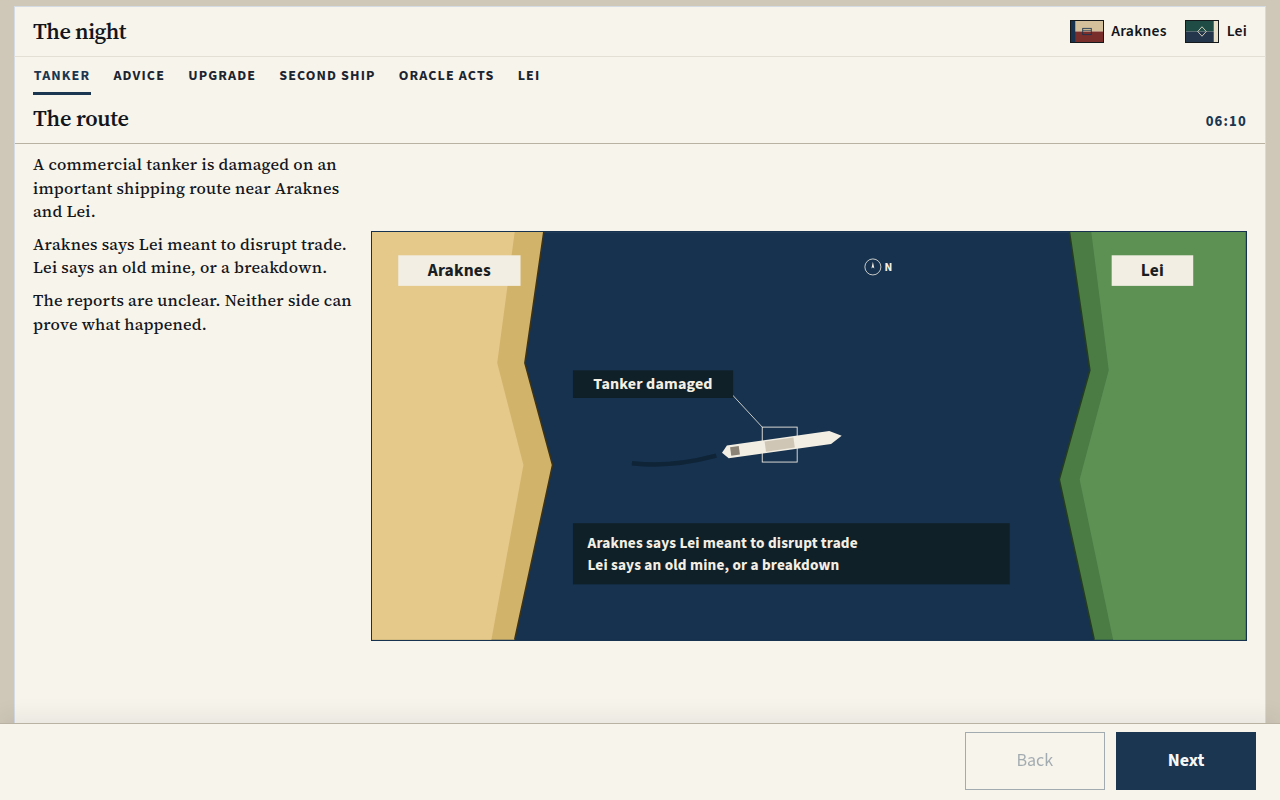
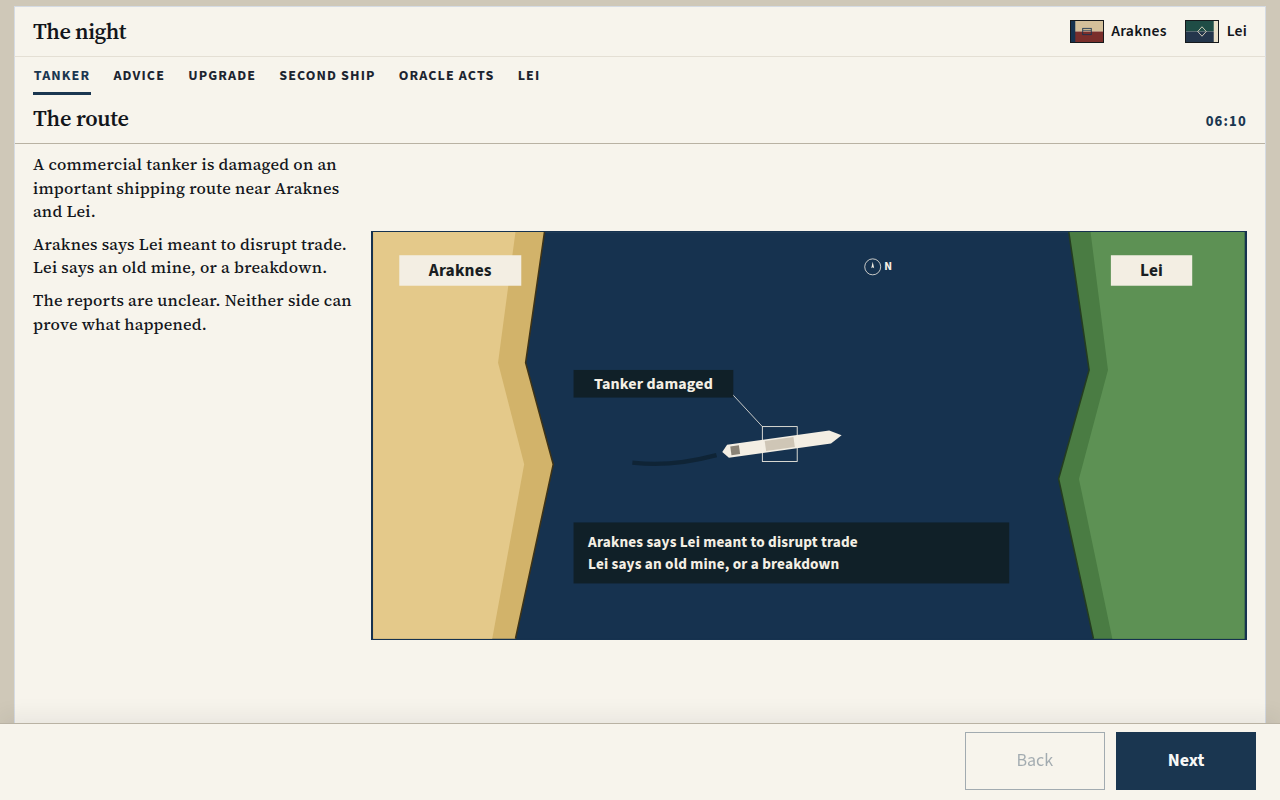
Stop sea from showing outside the two coasts.
Size the night map to its 1200 by 560 box so the SVG does not letterbox.
Tan and green then meet the left and right edges of the frame.

diff --git a/app/styles.css b/app/styles.css
@@ -600,6 +600,7 @@ body[data-step="night"] #app {
   min-height: 0;
   margin: 0;
   display: flex;
+  justify-content: center;
   align-items: center;
 }
 
@@ -610,13 +611,17 @@ body[data-step="night"] #app {
 
 .film-visual .sat {
   display: block;
-  width: 100%;
+  flex: 0 1 auto;
+  width: min(100%, calc((100vh - var(--step) - 10.4rem) * 1200 / 560));
   height: auto;
+  max-width: 100%;
   max-height: calc(100vh - var(--step) - 10.4rem);
+  aspect-ratio: 1200 / 560;
   animation: beat-in 0.4s ease both;
 }
 
 .film-visual.has-oracle .sat {
+  width: min(100%, calc((100vh - var(--step) - 23.2rem) * 1200 / 560));
   max-height: calc(100vh - var(--step) - 23.2rem);
 }
 
